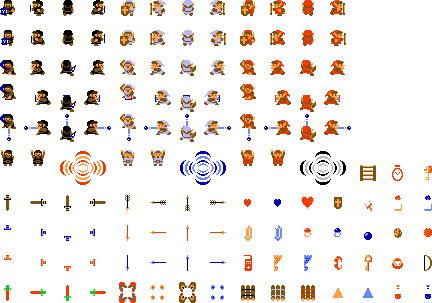
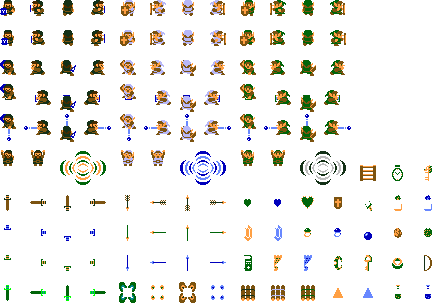
Amélioration des graphismes

diff --git a/index.html b/index.html
@@ -4,11 +4,11 @@
     <meta charset="UTF-8" />
     <meta http-equiv="X-UA-Compatible" content="IE=edge" />
     <meta name="viewport" content="width=device-width, initial-scale=1.0" />
-    <title>The Legend Of Turgut</title>
+    <title>The Legende of Turgut</title>
     <link rel="stylesheet" href="style.css" />
   </head>
   <body>
-    <h1>The Legend Of Turgut</h1>
+    <h1>The Legende of Turgut</h1>
     <h2>par Kevin Özkaraca</h2>
     <div class="gameScreenCenter">
       <canvas id="canvas" width="256" height="240"></canvas>

diff --git a/script.js b/script.js
@@ -1,4 +1,4 @@
-// Variables de la base du jeu
+// Cours 05
 let fps = 60;
 let ctx = canvas.getContext("2d");
 let worldTiles = new Image();
@@ -19,7 +19,7 @@ let gameObjects = [];
 let maps = [];
 let gameMap = null;
 // Zoom la taille du jeu (implémenter des bouttons)
-document.body.style.zoom = "250%";
+document.body.style.zoom = "260%";
 document.addEventListener("keydown", keyDownHandler, false);
 document.addEventListener("keyup", keyUpHandler, false);
 

diff --git a/style.css b/style.css
@@ -27,7 +27,7 @@ h1 {
 }
 h2 {
   font-family: "retro1";
-  font-size: small;
+  font-size: x-small;
   text-align: center;
   color: rgb(242, 214, 0);
   text-shadow: 1px 1px 0px #015a66;
@@ -42,4 +42,6 @@ h2 {
   margin-left: auto;
   margin-right: auto;
   display: block;
+  image-rendering: optimizeSpeed;
+  image-rendering: pixelated;
 }
